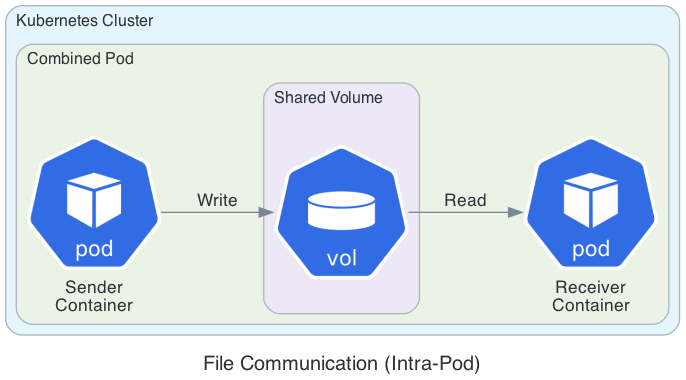
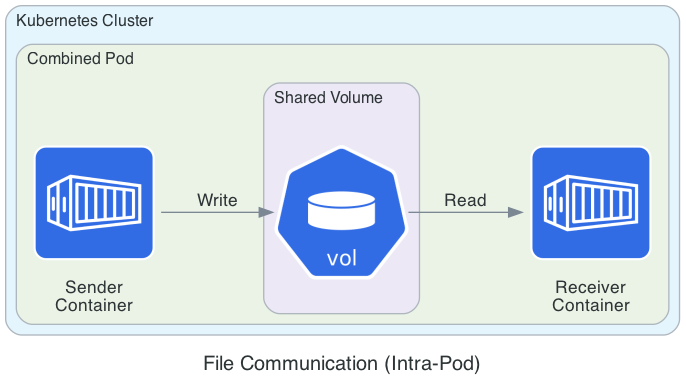
update payload generation, and enhance file polling to use fs events

Changed region(s): [[0.0306, 0.3474, 0.2449, 0.7237], [0.7653, 0.3474, 0.9796, 0.7237]]

diff --git a/src/file/writer.js b/src/file/writer.js
@@ -1,4 +1,6 @@
 import fsp from "node:fs/promises";
+import fs from "node:fs";
+import crypto from "node:crypto";
 import path from "node:path";
 import { CONFIG, getBenchmarkSizes } from "../common/config.js";
 import { calculateThroughput, logResult } from "../common/utils.js";
@@ -19,7 +21,7 @@ while (true) {
 console.log("method,size_bytes,rep,elapsed_ms,throughput_mib_s");
 
 for (const size of getBenchmarkSizes()) {
-    const payload = Buffer.alloc(size, 0x78); // repeated 'x'
+    const payload = crypto.randomBytes(size); // random data to avoid compression bias
 
     for (let r = 1; r <= CONFIG.benchmark.reps; r++) {
         const tmp = path.join(DATA_DIR, "payload.tmp");
@@ -50,15 +52,37 @@ for (const size of getBenchmarkSizes()) {
         // Atomic rename → reader sees it
         await fsp.rename(tmp, ready);
 
-        // Wait for ACK (simple poll, fast path)
-        while (true) {
-            try {
-                await fsp.access(ack);
-                break;
-            } catch {
-                await new Promise(r => setTimeout(r, 1)); // 1ms poll
-            }
-        }
+        // Wait for ACK (no busy-wait)
+        await new Promise((resolve, reject) => {
+            let resolved = false;
+            const watcher = fs.watch(DATA_DIR, (eventType, filename) => {
+                if (resolved) return;
+                if (filename === "ack" && (eventType === "rename" || eventType === "change")) {
+                    fsp.access(ack).then(() => {
+                        if (!resolved) {
+                            resolved = true;
+                            watcher.close();
+                            resolve();
+                        }
+                    }).catch(() => { });
+                }
+            });
+            watcher.on("error", (err) => {
+                if (!resolved) {
+                    resolved = true;
+                    watcher.close();
+                    reject(err);
+                }
+            });
+            // Check after watcher is set up to catch files created before watching
+            fsp.access(ack).then(() => {
+                if (!resolved) {
+                    resolved = true;
+                    watcher.close();
+                    resolve();
+                }
+            }).catch(() => { });
+        });
 
         const dtMs = Number(process.hrtime.bigint() - t0) / 1e6;
         const thr = calculateThroughput(size, dtMs);

diff --git a/src/net/sender.js b/src/net/sender.js
@@ -7,7 +7,7 @@ const url = `http://${CONFIG.net.host}:${CONFIG.net.port}/upload`;
 console.log("method,size_bytes,rep,elapsed_ms,throughput_mib_s");
 
 for (const size of getBenchmarkSizes()) {
-    const payload = Buffer.alloc(size, 0x78); // repeated 'x'
+    const payload = crypto.randomBytes(size);
     const expectedHash = crypto.createHash("sha256").update(payload).digest("hex");
 
     for (let r = 1; r <= CONFIG.benchmark.reps; r++) {

diff --git a/vis/architecture.py b/vis/architecture.py
@@ -1,6 +1,7 @@
 """
 Generate architecture diagrams for benchmark.
 """
+
 import os
 
 from PIL import Image
@@ -8,32 +9,41 @@ from diagrams import Diagram, Cluster, Edge
 from diagrams.k8s.compute import Pod
 from diagrams.k8s.network import Service
 from diagrams.k8s.storage import Volume
+from diagrams.custom import Custom
 
-os.makedirs("../results/architecture", exist_ok=True)
+# Get the directory where this script is located
+SCRIPT_DIR = os.path.dirname(os.path.abspath(__file__))
+# Go up one level to repo root, then into results/architecture
+OUTPUT_DIR = os.path.join(SCRIPT_DIR, "..", "results", "architecture")
+os.makedirs(OUTPUT_DIR, exist_ok=True)
+
 
 def crop_whitespace(image_path):
     """Remove external whitespace from diagram image without affecting internal layout."""
     img = Image.open(image_path)
 
     # Convert to RGB if needed
-    if img.mode == 'RGBA':
+    if img.mode == "RGBA":
         # Create white background
-        background = Image.new('RGB', img.size, (255, 255, 255))
+        background = Image.new("RGB", img.size, (255, 255, 255))
         background.paste(img, mask=img.split()[3])  # Use alpha channel as mask
         img = background
-    elif img.mode != 'RGB':
-        img = img.convert('RGB')
+    elif img.mode != "RGB":
+        img = img.convert("RGB")
 
     # Convert to numpy for easier processing
     import numpy as np
+
     img_array = np.array(img)
 
     # Create a mask where pixels are NOT white (or near-white)
     # Consider pixels with all RGB values > 250 as "white"
     threshold = 250
-    non_white = (img_array[:, :, 0] < threshold) | \
-                (img_array[:, :, 1] < threshold) | \
-                (img_array[:, :, 2] < threshold)
+    non_white = (
+        (img_array[:, :, 0] < threshold)
+        | (img_array[:, :, 1] < threshold)
+        | (img_array[:, :, 2] < threshold)
+    )
 
     # Find the bounding box of non-white pixels
     rows = np.any(non_white, axis=1)
@@ -53,9 +63,12 @@ def crop_whitespace(image_path):
         # Crop the image
         img_cropped = img.crop((cmin, rmin, cmax, rmax))
         img_cropped.save(image_path)
-        print(f"  Cropped: {os.path.basename(image_path)} from {img.size} to {img_cropped.size}")
+        print(
+            f"  Cropped: {os.path.basename(image_path)} from {img.size} to {img_cropped.size}"
+        )
     else:
         print(f"  No cropping needed: {os.path.basename(image_path)}")
+
 
 graph_attr = {
     # "size": "16,9",
@@ -63,11 +76,13 @@ graph_attr = {
 }
 
 # Network-based architecture
-with Diagram("Network Communication (Inter-Pod)",
-             filename="../results/architecture/network_arch",
-             show=False,
-             direction="LR",
-             graph_attr=graph_attr):
+with Diagram(
+    "Network Communication (Inter-Pod)",
+    filename=os.path.join(OUTPUT_DIR, "network_arch"),
+    show=False,
+    direction="LR",
+    graph_attr=graph_attr,
+):
     with Cluster("Kubernetes Cluster"):
         with Cluster("Sender Pod"):
             sender = Pod("Sender\nContainer")
@@ -77,30 +92,34 @@ with Diagram("Network Communication (Inter-Pod)",
         with Cluster("Receiver Pod"):
             receiver = Pod("Receiver\nContainer")
 
-    sender >> Edge(label="HTTP") >> svc >> Edge(label="Load Balance") >> receiver
+    sender >> Edge(label="HTTP") >> svc >> Edge(label="Routes") >> receiver
 
 # Crop external whitespace
-crop_whitespace("../results/architecture/network_arch.png")
+crop_whitespace(os.path.join(OUTPUT_DIR, "network_arch.png"))
+
+ICON_PATH = os.path.join(OUTPUT_DIR, "container.png")
 
 # File-based architecture
-with Diagram("File Communication (Intra-Pod)",
-             filename="../results/architecture/file_arch",
-             show=False,
-             direction="LR",
-             graph_attr=graph_attr):
+with Diagram(
+    "File Communication (Intra-Pod)",
+    filename=os.path.join(OUTPUT_DIR, "file_arch"),
+    show=False,
+    direction="LR",
+    graph_attr=graph_attr,
+):
     with Cluster("Kubernetes Cluster"):
         with Cluster("Combined Pod"):
-            file_sender = Pod("Sender\nContainer")
+            file_sender = Custom("Sender\nContainer", ICON_PATH)
 
             with Cluster("Shared Volume"):
                 volume = Volume()
 
-            file_receiver = Pod("Receiver\nContainer")
+            file_receiver = Custom("Receiver\nContainer", ICON_PATH)
 
             file_sender >> Edge(label="Write") >> volume
             volume >> Edge(label="Read") >> file_receiver
 
 # Crop external whitespace
-crop_whitespace("../results/architecture/file_arch.png")
+crop_whitespace(os.path.join(OUTPUT_DIR, "file_arch.png"))
 
 print("✅ Architecture diagrams generated in results/architecture/")
